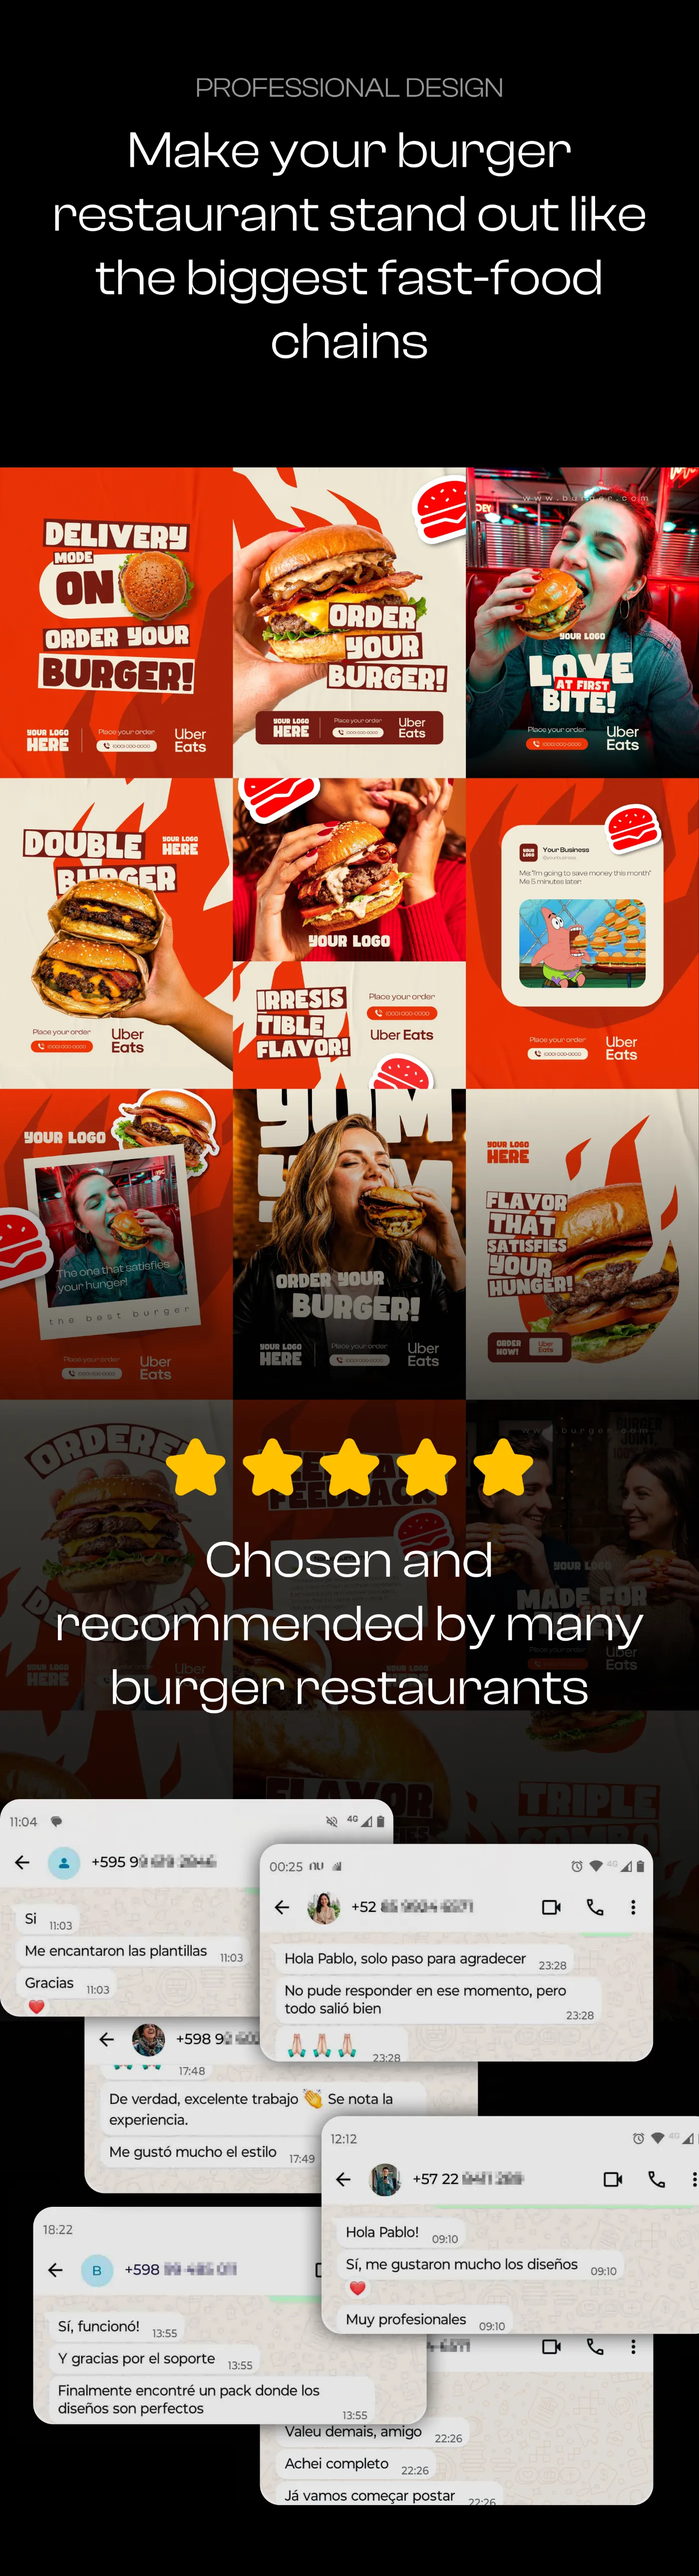
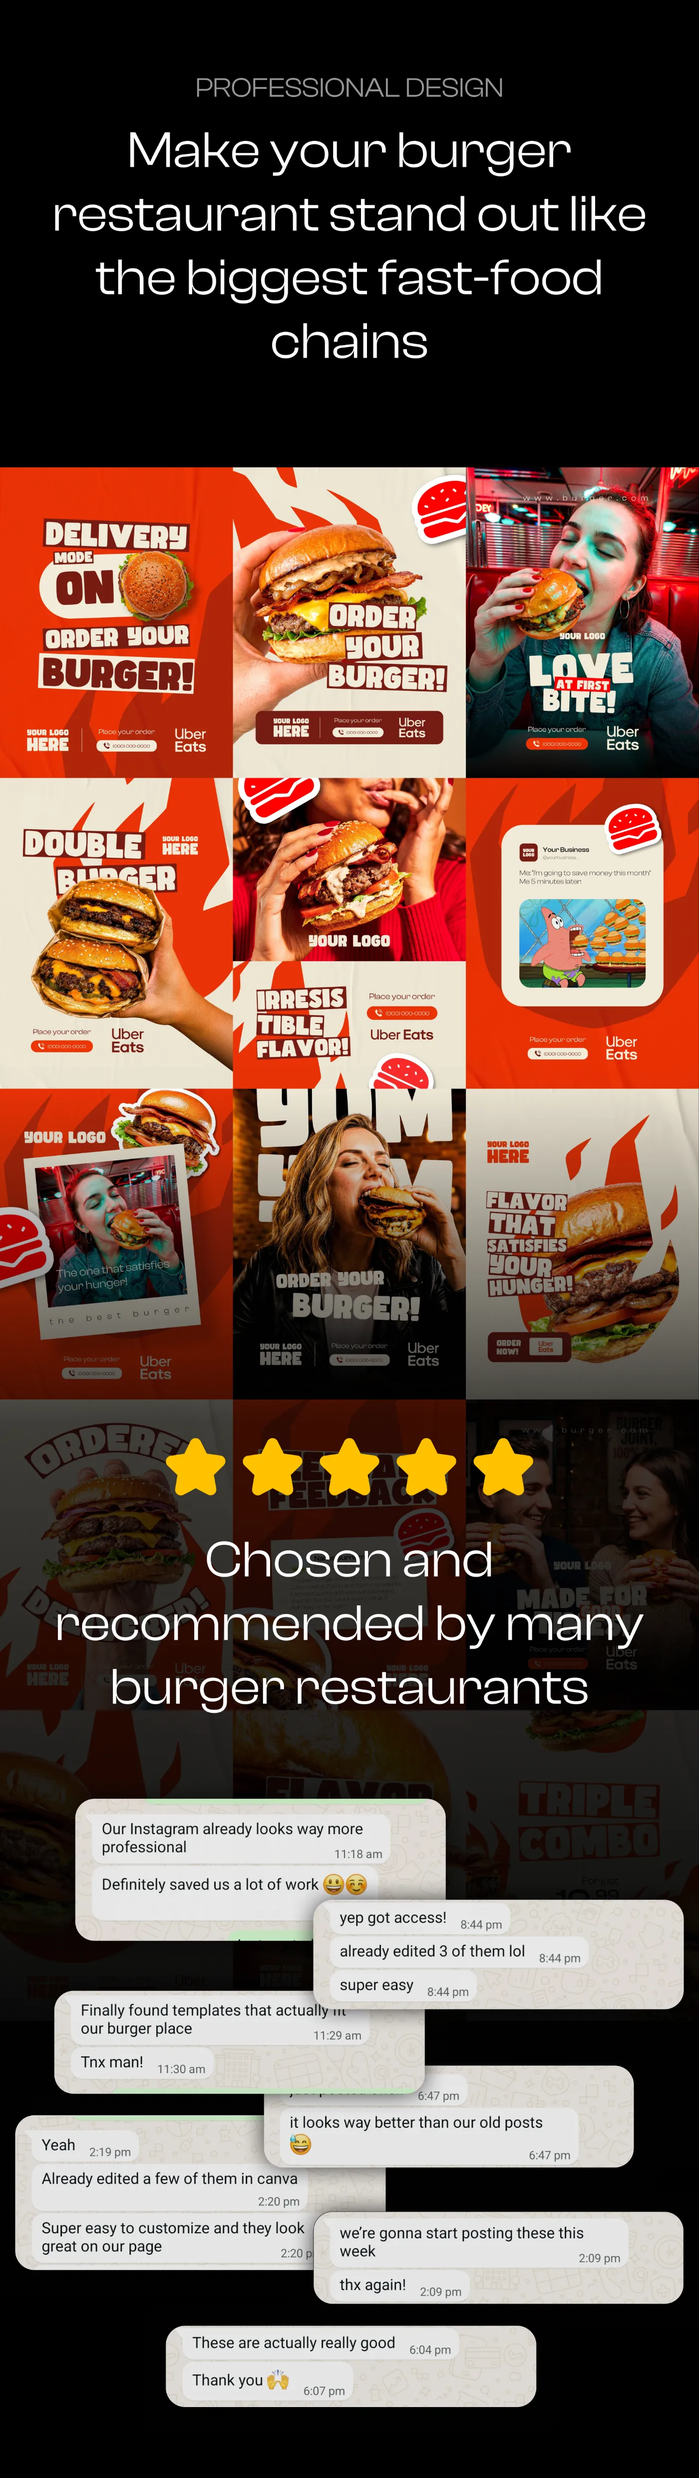
algumas coisas

diff --git a/src/app/[lang]/packs/[packName]/layout.tsx b/src/app/[lang]/packs/[packName]/layout.tsx
@@ -14,10 +14,10 @@ export async function generateMetadata({ params }: Omit<Props, 'children'>): Pro
   let imageUrl = '/herocover.png'
   
   if (packName === 'burger-restaurants') {
-    title = 'Burger Restaurants Pack — Social Media Arts'
+    title = 'Social Media Template Pack for Burger Restaurants'
     imageUrl = '/packs/burger-restaurants/card.webp'
   } else if (packName === 'burger') {
-    title = lang === 'es' ? 'Pack de Hamburguesas — Artes Editables' : 'Pack de Hambúrgueres — Artes Editáveis'
+    title = lang === 'es' ? 'Pack de plantillas editables para hamburgueserías' : 'Pack de Hambúrgueres — Artes Editáveis'
     imageUrl = lang === 'es' ? '/packs/burger-es-vol01/card.webp' : '/packs/burger-pt-vol01/card.webp'
   } else if (packName === 'provedor' || packName === 'proveedor') {
     title = lang === 'es' ? 'Pack Proveedor de Internet — Artes Editables' : 'Pack Provedor de Internet — Artes Editáveis'
